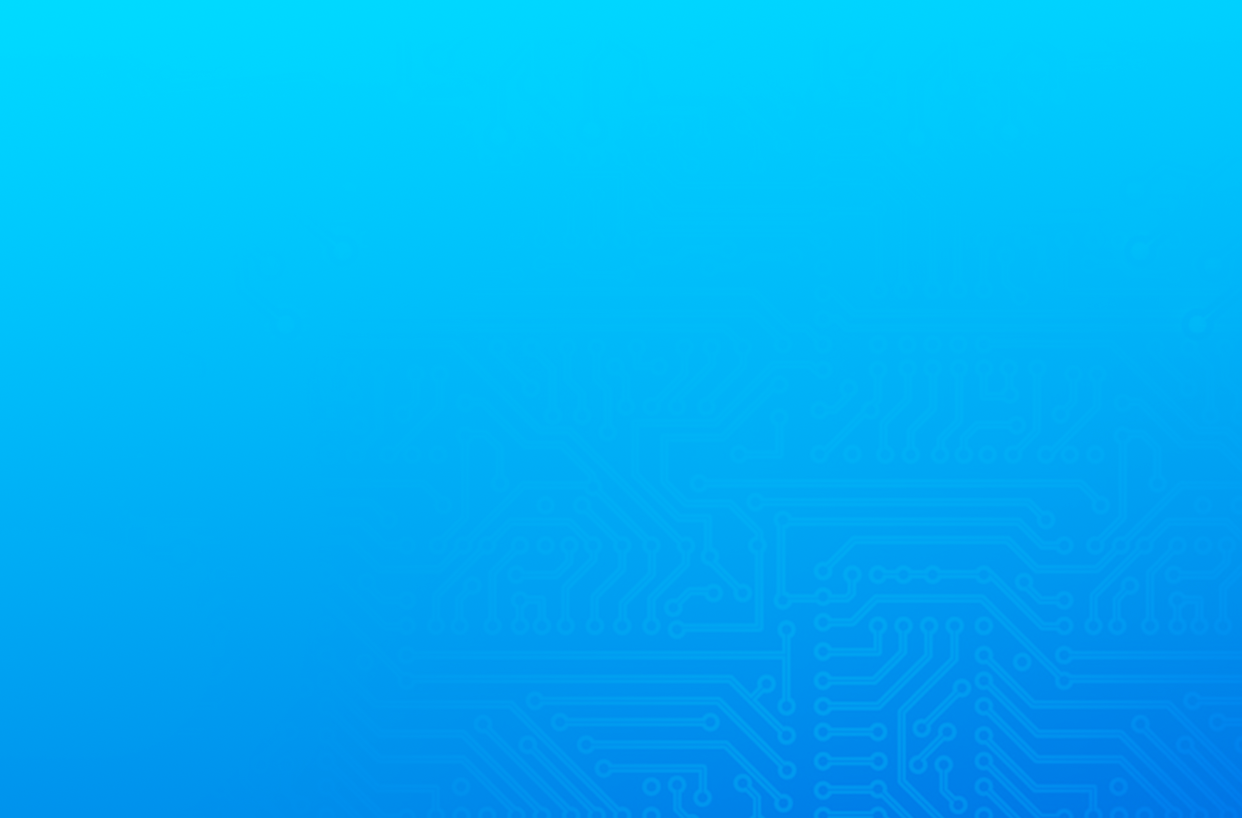
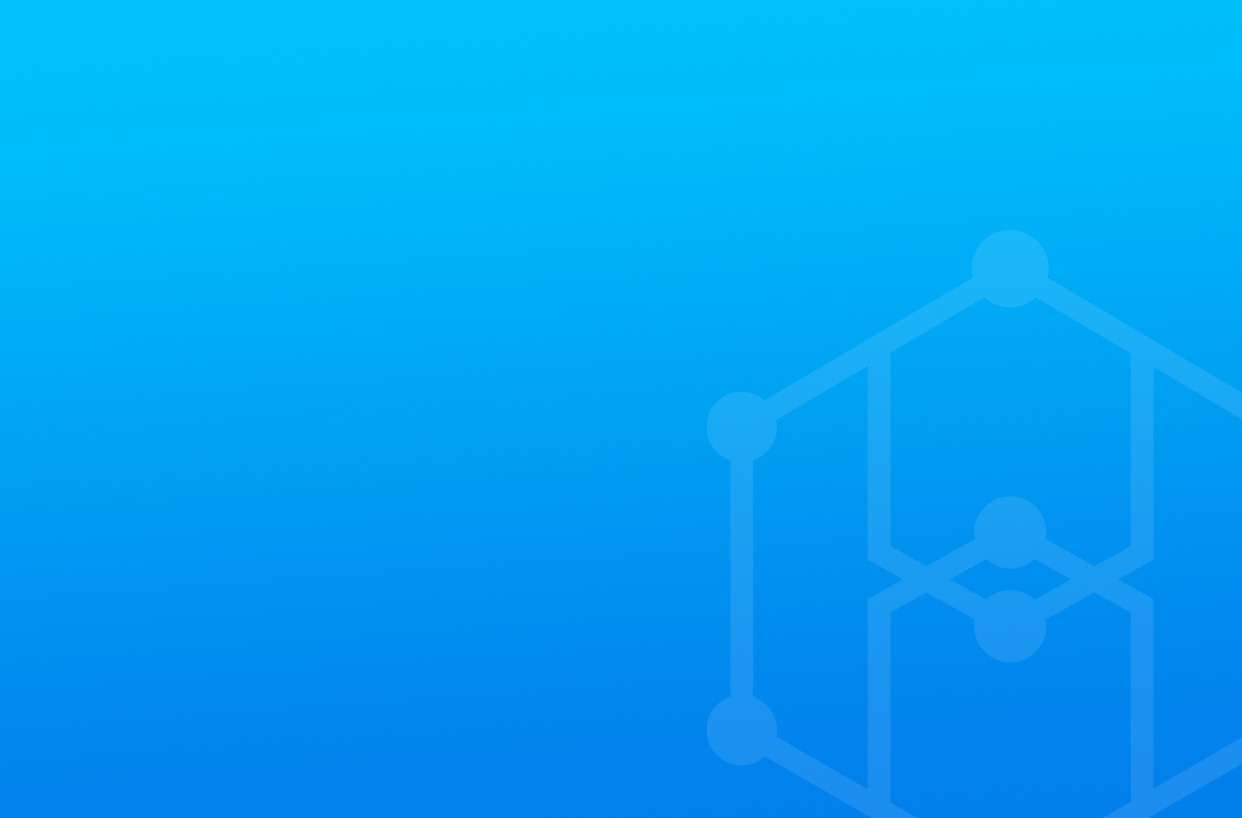
改变主页topbg

Changed region(s): [[0.5507, 0.2751, 1.0, 1.0], [0.0, 0.0, 0.0306, 0.0306]]

diff --git a/app/containers/settings/ReceiptCodeScreen.js b/app/containers/settings/ReceiptCodeScreen.js
@@ -229,7 +229,15 @@ class ReceiptCodeScreen extends BaseComponent {
 
                         <Text style={styles.titleTxt}>{this.props.wallet.name}</Text>
                         <View style={styles.qrCode}>
-                            {this.state.qrcodeLoading && this.props.firstQR ? <View
+                        <QRCode
+                                    value={this.props.wallet.address}
+                                    size={180}
+                                    bgColor='#000'
+                                    fgColor='#fff'
+                                    onLoad={() => {}}
+                                    onLoadEnd={() => { }}
+                                />
+                            {/*{this.state.qrcodeLoading && this.props.firstQR ? <View
                                 style={{ flex: 1, justifyContent: 'center', alignItems: 'center' }}>
                                 <Text
                                     style={{ color: 'black' }}>Loading...</Text>
@@ -240,9 +248,9 @@ class ReceiptCodeScreen extends BaseComponent {
                                     size={180}
                                     bgColor='#000'
                                     fgColor='#fff'
-                                    onLoad={() => { }}
+                                    onLoad={() => {}}
                                     onLoadEnd={() => { }}
-                                />}
+                            />}*/}
                         </View>
 
                         <Text style={styles.adderssTxt}>{this.props.wallet.address}</Text>

diff --git a/app/containers/home/Home.js b/app/containers/home/Home.js
@@ -431,6 +431,7 @@ class HomeScreen extends BaseComponent {
             extrapolate: 'clamp'
         })
 
+        let topBg = this.props.wallet.type == 'eth' ? require('../../assets/home/hp_bg_eth.png') : require('../../assets/home/hp_bg.png');
         return (
             <View style={styles.container}>
                 <StatusBarComponent barStyle={this.state.statusbarStyle} />
@@ -461,7 +462,7 @@ class HomeScreen extends BaseComponent {
                             width: LayoutConstants.WINDOW_WIDTH,
                             transform: [{ translateY: headerBgImageTranslateY }, { scale: headerBgImageScale }],
                         }}
-                        source={require('../../assets/home/hp_bg.png')}
+                        source={topBg} 
                     />
                     <Animated.View
                         style={{
@@ -489,7 +490,7 @@ class HomeScreen extends BaseComponent {
                                 color: 'white',
                                 fontWeight: '400',
                                 fontSize: 18,
-                                lineHeight: 18
+                                lineHeight: 18,
                             }}
                         >{this.state.isTotalAssetsHidden ? '****' : this.state.monetaryUnitSymbol + this.props.totalAssets + ''}</Text>
                     </Animated.View>

diff --git a/app/containers/appLoading/Loading.js b/app/containers/appLoading/Loading.js
@@ -174,8 +174,6 @@ class Loading extends Component {
         }
 
         this.props.dispatch(setIsNewWallet(false))
-        this.getMessageCount()
-
 
 
         if (user) {
@@ -221,31 +219,6 @@ class Loading extends Component {
         }
         StorageManage.save(StorageKey.MonetaryUnit, monetaryUnit)
         this.props.dispatch(setMonetaryUnit(monetaryUnit))
-    }
-
-   
-
-    //获取未度消息数
-    async getMessageCount() {
-
-        let userToken = await StorageManage.load(StorageKey.UserToken)
-        if (!userToken || userToken === null) {
-            return;
-        }
-        let params = {
-            'userToken': userToken['userToken'],
-        }
-        NetworkManager.getUnReadMessageCount(params)
-            .then(response => {
-                if (response.code === 200) {
-                    let messageCount = response.data.account;
-                    DeviceEventEmitter.emit('messageCount', { messageCount: messageCount });
-                } else {
-                    console.log('getMessageCount err msg:', response.msg)
-                }
-            }).catch(err => {
-                console.log('getMessageCount err:', err)
-            })
     }
 
     render() {

diff --git a/app/containers/home/component/HeadView.js b/app/containers/home/component/HeadView.js
@@ -47,7 +47,7 @@ export default class HeadView extends Component {
                                 backgroundImageSource={this.props.hideAssetsIcon}
                             />
                         </View>
-                        <Text adjustsFontSizeToFit={true} minimumFontScale={0.01} numberOfLines={1} style={{ flex: 1, fontSize: 39, color: 'white', fontWeight: '700', marginLeft: -3, paddingLeft: 0, width: LayoutConstants.WINDOW_WIDTH - 50 }}> {this.props.totalAssets} </Text>
+                        <Text adjustsFontSizeToFit={true} minimumFontScale={0.01} numberOfLines={1} style={{ flex: 1, fontSize: 39, color: 'white', fontWeight: '700', marginLeft: -3, paddingLeft: 0, /*width: LayoutConstants.WINDOW_WIDTH - 50 */}}> {this.props.totalAssets} </Text>
                     </TouchableOpacity>
                 </View>
                 <View style={styles.addressContainer}>
@@ -91,6 +91,7 @@ const styles = StyleSheet.create({
         justifyContent: 'center',
         marginTop: LayoutConstants.HOME_HEADER_LADDER_HEIGHT,
         marginLeft: 21,
+        
     },
     assetsBox: {
         backgroundColor: 'transparent',

diff --git a/app/containers/transaction/TransactionRecoder.js b/app/containers/transaction/TransactionRecoder.js
@@ -844,6 +844,7 @@ export default class TransactionRecoder extends BaseComponent {
     renderComponent() {
 
         let { amount, price } = store.getState().Core.balance;
+        const { wallet } = store.getState().Core
         let value = parseFloat(amount) * parseFloat(price);
         value = Number(value.toFixed(8));
 
@@ -931,7 +932,7 @@ export default class TransactionRecoder extends BaseComponent {
                 }}>
                     <Image
                         style={{ flex: 1, width: Layout.WINDOW_WIDTH }}
-                        source={require('../../assets/home/hp_bg.png')}
+                        source={require('../../assets/home/top_bg.png')}
                     />
                     <Animated.Text
                         style={{

diff --git a/app/containers/transaction/TransactionDetail.js b/app/containers/transaction/TransactionDetail.js
@@ -183,11 +183,11 @@ export default class TransactionDetail extends BaseComponent {
 
         Linking.canOpenURL(detailUrl).then(supported => {
             if (!supported) {
-                //console.warn('Can\'t handle url: ' + baiduURL);
+                //console.warn('Can\'t handle url: ' + detailUrl);
             } else {
-                return Linking.openURL(baiduURL);
+                return Linking.openURL(detailUrl);
             }
-        }).catch(err => console.error('An error occurred', baiduURL));
+        }).catch(err => console.error('An error occurred', detailUrl));
     }
 
     copyUrl() {

diff --git a/app/containers/mapping/MappingRecordDetailScreen.js b/app/containers/mapping/MappingRecordDetailScreen.js
@@ -198,7 +198,7 @@ class MappingRecordDetailScreen extends BaseComponent {
         if (Layout.DEVICE_IS_IPHONE_X()) {
             headerMarginTop = { marginTop: 48 };
         }
-        let headerBg = require('../../assets/home/hp_bg.png')
+        let headerBg = require('../../assets/home/top_bg.png')
 
         let info1IsDone = this.state.status == 0 ? false : true
         let info2IsDone = this.state.status == 2 ? true : false
